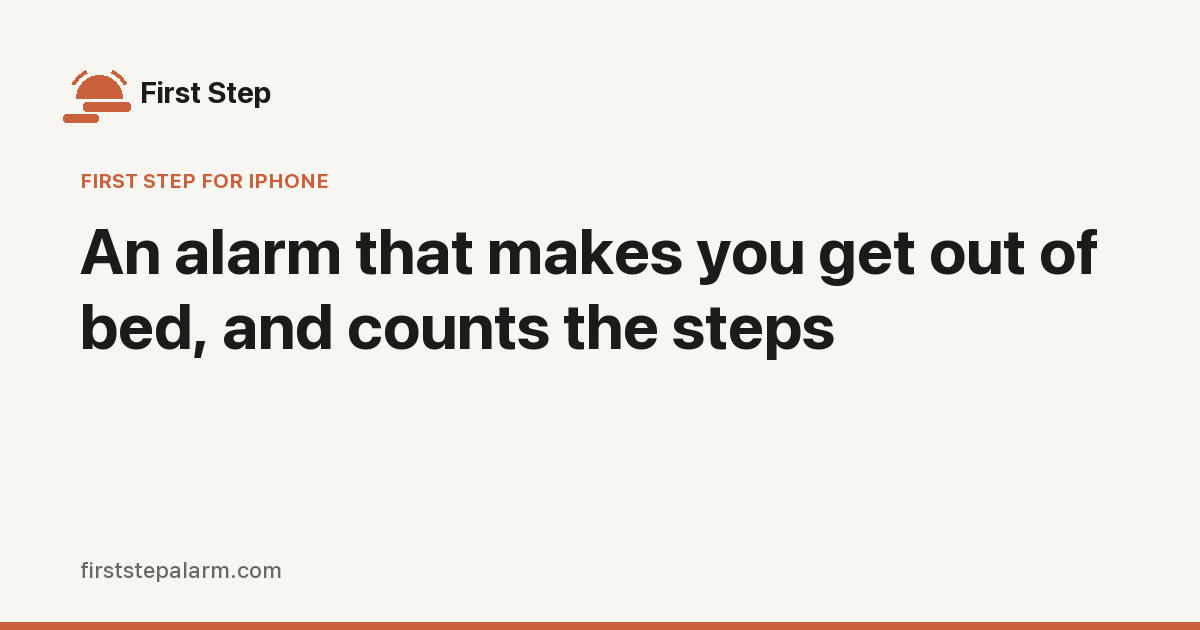
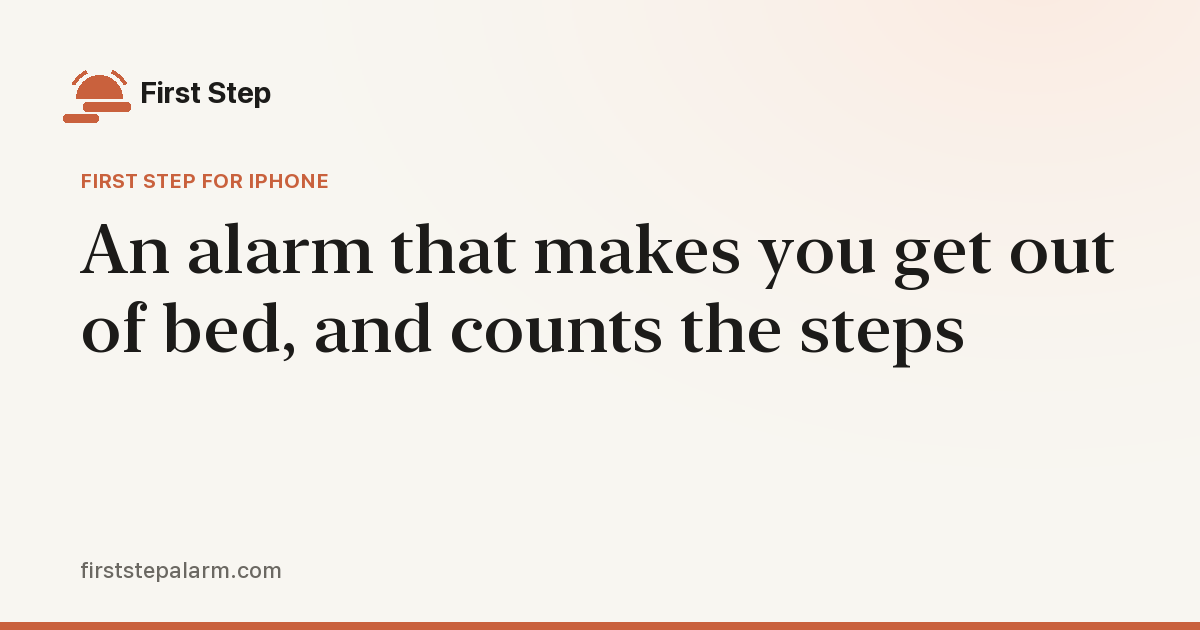
Lead with the first step, not the threat, and set it in the serif
The card people actually see when the link is shared said 'the alarm
that won't stop until you've done something', which sells the
mechanic rather than the morning it buys you. Every share was
arguing for the punishment.

The home card was also missing from the manifest, so it had gone
stale while the other seventeen were rebuilt.

Cards now use New York, the serif the app already uses for its daily
line, on paper with the light coming from the top right. A phrase in
asterisks takes the clay.

Changed region(s): [[0.0617, 0.3619, 0.925, 0.6032]]

diff --git a/index.html b/index.html
@@ -3,11 +3,11 @@
 <head>
 <meta charset="utf-8">
 <meta name="viewport" content="width=device-width, initial-scale=1">
-<title>First Step | The alarm that won't stop until you've done something</title>
-<meta name="description" content="First Step is an iPhone alarm that keeps coming back until you've finished a morning mission: push-ups, meditation, journaling, a walk. Verified on your phone, nothing uploaded. One week free.">
+<title>First Step | Stop snoozing and start your morning</title>
+<meta name="description" content="First Step is an iPhone alarm that helps you start the day with one small thing: push-ups, journaling, a walk, ten minutes of quiet. It keeps coming back until you've begun. Nothing is uploaded. One week free.">
 <link rel="canonical" href="https://firststepalarm.com/">
-<meta property="og:title" content="First Step | Wake up and actually stay up">
-<meta property="og:description" content="The alarm that keeps coming back until you've done one good thing. Then it stops, and the day is yours.">
+<meta property="og:title" content="First Step | Stop snoozing and start your morning">
+<meta property="og:description" content="An iPhone alarm that helps you take one small step every morning. It doesn't stop until you've begun, and then the day is yours.">
 <meta property="og:url" content="https://firststepalarm.com/">
 <meta property="og:type" content="website">
 <meta property="og:site_name" content="First Step">

diff --git a/_build/og.py b/_build/og.py
@@ -1,10 +1,30 @@
-"""Generate 1200x630 Open Graph cards and a square logo in the First Step palette."""
+"""Generate 1200x630 Open Graph cards and a square logo in the First Step palette.
+
+Headlines are set in New York, the same serif the app uses for its daily
+line, because a bold centred sans is what every other productivity app
+in the store looks like. A phrase wrapped in *asterisks* takes the clay.
+"""
 import json, os, sys
 from PIL import Image, ImageDraw, ImageFont
 SF = "/System/Library/Fonts/SFNS.ttf"
+NY = "/System/Library/Fonts/NewYork.ttf"
 PAPER, INK, CLAY, SUB = (248, 246, 241), (28, 27, 25), (201, 97, 61), (107, 104, 98)
 def font(size, weight, optical):
     f = ImageFont.truetype(SF, size); f.set_variation_by_axes([100, optical, 400, weight]); return f
+def serif(size, weight=500):
+    f = ImageFont.truetype(NY, size); f.set_variation_by_axes([size, weight, 0]); return f
+def ground(w, h):
+    """Paper with the light coming from the top right, the way a morning does."""
+    im = Image.new("RGB", (w, h), PAPER); px = im.load()
+    for y in range(h):
+        for x in range(0, w, 2):
+            dx, dy = (x - w * 0.86) / (w * 0.72), (y + h * 0.04) / (h * 0.95)
+            t = max(0.0, 1.0 - (dx * dx + dy * dy) ** 0.5)
+            v = t * t * 0.9
+            c = (round(248 + (251 - 248) * v), round(246 + (233 - 246) * v), round(241 + (223 - 241) * v))
+            px[x, y] = c
+            if x + 1 < w: px[x + 1, y] = c
+    return im
 def mark(d, cx, cy, r, ink=INK):
     # a sun on the first step, ringing: the First Step mark, box of side 2.4r centred on (cx, cy)
     k = r / 100.0; ox, oy = cx - 120 * k, cy - 120 * k
@@ -23,21 +43,37 @@ def wrap(d, text, f, max_w):
     if cur: lines.append(" ".join(cur))
     return lines
 def card(path, title, kicker):
-    im = Image.new("RGB", (1200, 630), PAPER); d = ImageDraw.Draw(im)
+    im = ground(1200, 630); d = ImageDraw.Draw(im)
     mark(d, 96, 96, 44)
     d.text((140, 74), "First Step", font=font(30, 700, 28), fill=INK)
     d.text((80, 168), kicker.upper(), font=font(20, 700, 20), fill=CLAY)
-    size = 64
+    # Words inside *asterisks* are the accent; the markers never render.
+    words = [(w.strip("*"), w.startswith("*") or w.endswith("*")) for w in title.split()]
+    size = 70
     while True:
-        f = font(size, 720, 60); lines = wrap(d, title, f, 1040)
-        if len(lines) <= 3 or size <= 44: break
+        f = serif(size); lines = wrap_runs(d, words, f, 1040)
+        if len(lines) <= 3 or size <= 42: break
         size -= 4
-    y = 212
+    y = 206
     for ln in lines:
-        d.text((80, y), ln, font=f, fill=INK); y += int(size * 1.18)
+        x = 80
+        for word, accent in ln:
+            d.text((x, y), word, font=f, fill=CLAY if accent else INK)
+            x += d.textlength(word + " ", font=f)
+        y += int(size * 1.14)
     d.text((80, 556), "firststepalarm.com", font=font(22, 500, 20), fill=SUB)
     d.rectangle([0, 622, 1200, 630], fill=CLAY)
     im.save(path, optimize=True)
+
+def wrap_runs(d, words, f, max_w):
+    lines, cur = [], []
+    for word, accent in words:
+        trial = " ".join(w for w, _ in cur + [(word, accent)])
+        if d.textlength(trial, font=f) <= max_w or not cur: cur.append((word, accent))
+        else: lines.append(cur); cur = [(word, accent)]
+    if cur: lines.append(cur)
+    return lines
+
 def logo(path):
     im = Image.new("RGB", (512, 512), PAPER); d = ImageDraw.Draw(im)
     mark(d, 256, 256, 200)
